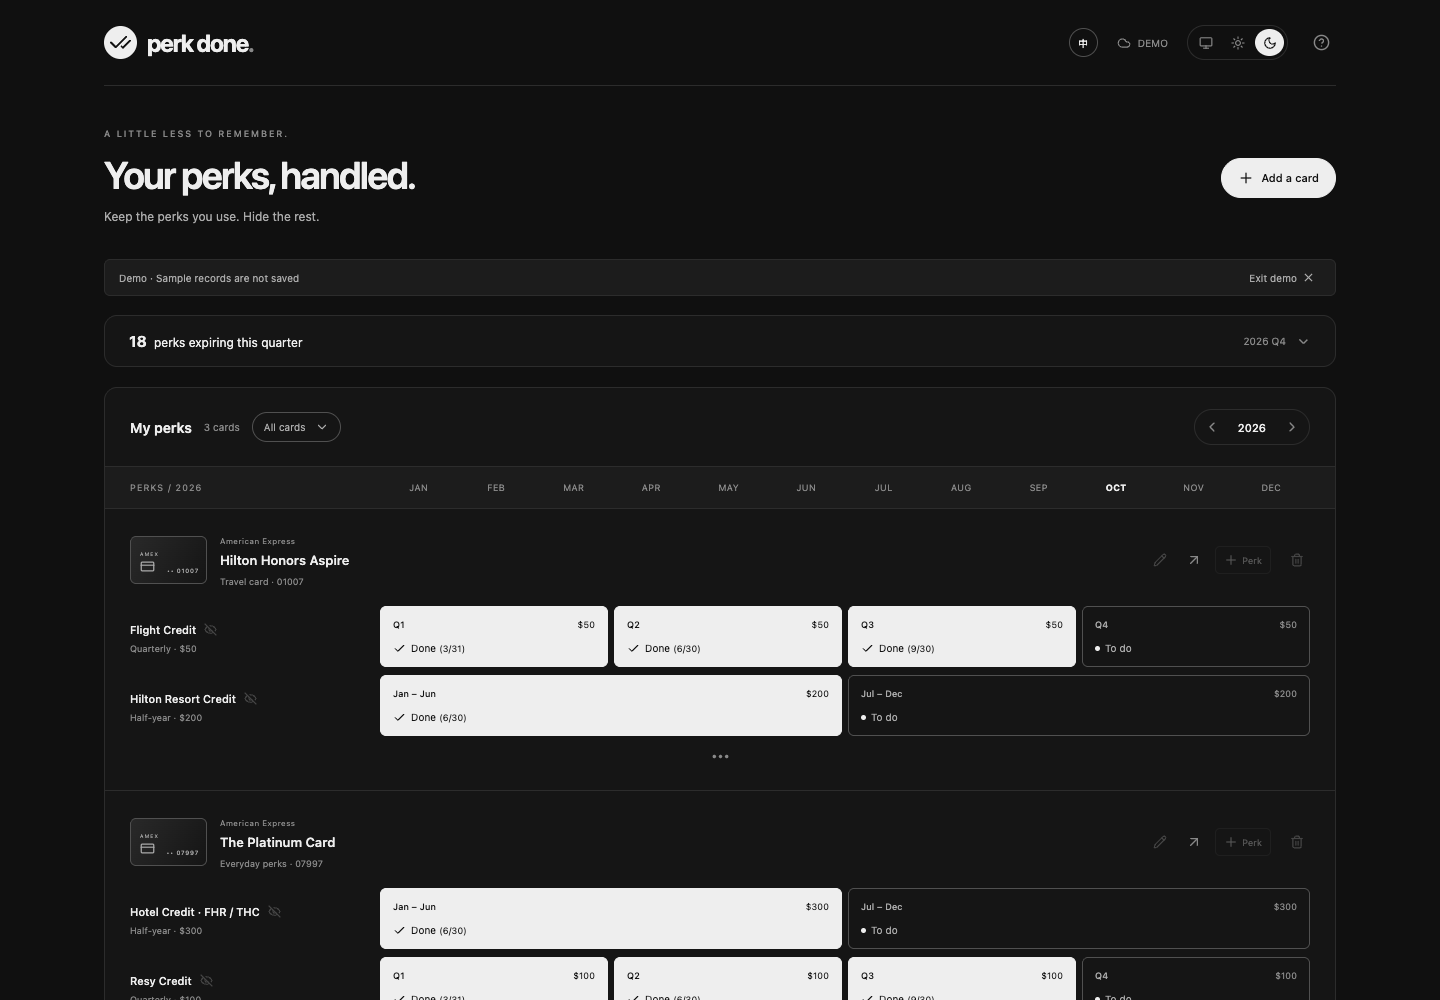
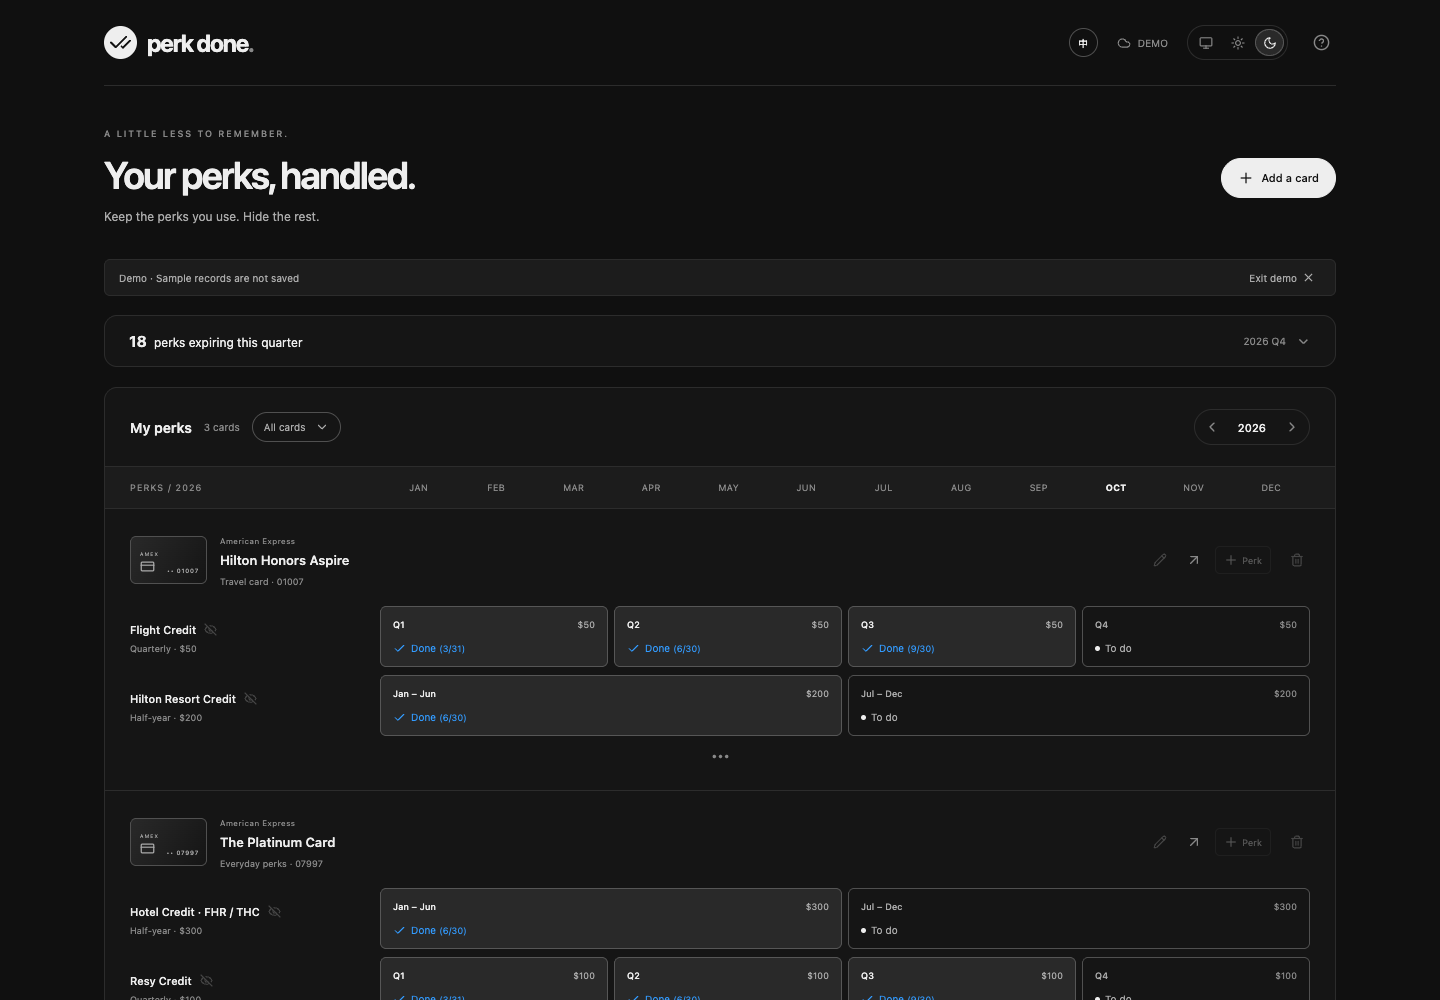
Soften completed perk states and compact wallet overview

Changed region(s): [[0.25, 0.868, 0.75, 1.0], [0.25, 0.589, 0.75, 0.744], [0.875, 0.031, 0.9062, 0.062]]

diff --git a/src/styles.css b/src/styles.css
@@ -16,6 +16,9 @@
   --muted: #858585;
   --border: #e5e5e5;
   --strong-border: #c8c8c8;
+  --blue: #087be6;
+  --selected-bg: #e8e8e8;
+  --selected-border: #bdbdbd;
   --accent: #171717;
   --inverse: #fff;
   --shadow: 0 20px 80px #0002;
@@ -33,6 +36,9 @@
   --muted: #888;
   --border: #2c2c2c;
   --strong-border: #505050;
+  --blue: #329bff;
+  --selected-bg: #292929;
+  --selected-border: #565656;
   --accent: #eee;
   --inverse: #111;
   --shadow: 0 20px 80px #0008;
@@ -48,6 +54,9 @@
     --muted: #888;
     --border: #2c2c2c;
     --strong-border: #505050;
+    --blue: #329bff;
+    --selected-bg: #292929;
+    --selected-border: #565656;
     --accent: #eee;
     --inverse: #111;
     --shadow: 0 20px 80px #0008;
@@ -1265,13 +1274,13 @@ input::placeholder {
   gap: 10px;
 }
 .popup-stats {
-  padding: 25px 0 22px;
+  padding: 14px 0 12px;
 }
 .number-pair {
   display: grid;
   grid-template-columns: 1fr 1fr;
   gap: 20px;
-  padding-bottom: 24px;
+  padding-bottom: 14px;
   border-bottom: 1px solid var(--border);
 }
 .number-pair span,
@@ -1282,21 +1291,28 @@ input::placeholder {
 }
 .number-pair strong {
   display: block;
-  font-size: 40px;
-  letter-spacing: -1.5px;
+  font-size: 32px;
+  letter-spacing: -1px;
   font-weight: 550;
-  margin-top: 9px;
+  margin-top: 7px;
   line-height: 1.1;
 }
-.return-stat {
-  padding-top: 22px;
+.number-pair small {
+  display: block;
+  font-size: 9px;
+  color: var(--muted);
+  margin-top: 4px;
 }
-.return-stat > div {
+.return-stat {
+  padding-top: 12px;
+}
+.return-row {
   display: flex;
+  flex-wrap: wrap;
   align-items: center;
-  gap: 16px;
   justify-content: space-between;
-  margin-top: 13px;
+  gap: 12px;
+  margin-top: 9px;
 }
 .return-stat strong {
   font-size: 25px;
@@ -1304,25 +1320,61 @@ input::placeholder {
   letter-spacing: -0.9px;
   white-space: nowrap;
 }
+.fee-value {
+  color: var(--secondary);
+}
+.earned-value {
+  color: var(--blue);
+}
 .return-stat i {
   font-style: normal;
   color: var(--muted);
   font-size: 19px;
   margin: 0 7px;
 }
-.return-stat b {
-  font-size: 10px;
-  border: 1px solid var(--strong-border);
-  padding: 7px 9px;
-  border-radius: 16px;
-  white-space: nowrap;
-  font-weight: 500;
+.return-message {
+  margin-left: auto;
+  display: flex;
+  flex-direction: column;
+  align-items: center;
+  text-align: center;
+  gap: 3px;
+  max-width: 130px;
+  flex-shrink: 0;
+}
+.return-emoji {
+  font-size: 19px;
+  line-height: 1.2;
+}
+.return-message b {
+  font-size: 11px;
+  font-weight: 600;
+  color: var(--secondary);
+}
+.return-message small {
+  font-size: 9px;
+  line-height: 1.4;
+  color: var(--muted);
+}
+.return-message.recovered b {
+  color: var(--blue);
 }
 .return-stat p {
   font-size: 9px;
   line-height: 1.6;
   color: var(--muted);
-  margin: 12px 0 0;
+  margin: 9px 0 0;
+}
+.popup .popup-footer {
+  padding: 12px 0 13px;
+}
+.popup .app-header {
+  height: 60px;
+}
+.popup .demo-banner {
+  margin-top: 12px;
+  margin-bottom: 0;
+  padding: 8px 10px;
 }
 .quarter-focus {
   padding: 0;
@@ -1462,38 +1514,55 @@ input::placeholder {
 }
 .period.done,
 .period.done:hover:not(:disabled) {
-  background: var(--accent);
-  border-color: var(--accent);
-  color: var(--inverse);
-  box-shadow: inset 0 0 0 1px var(--accent);
+  background: var(--selected-bg);
+  border-color: var(--selected-border);
+  color: var(--text);
+  box-shadow: none;
 }
-.period.done .period-top,
+.period.done .period-top {
+  color: var(--text);
+}
 .period.done .period-top > span,
-.period.done .done-date,
 .period.done .expiry-note {
-  color: var(--inverse);
+  color: var(--secondary);
+}
+.period.done .period-state,
+.period.done .done-date {
+  color: var(--blue);
 }
 .theme-control button.selected,
 .theme-control button.selected:hover {
-  background: var(--accent);
-  color: var(--inverse);
+  background: var(--selected-bg);
+  color: var(--text);
+  box-shadow: inset 0 0 0 1px var(--selected-border);
 }
 .product.selected,
 .product.selected:hover {
-  background: var(--accent);
-  color: var(--inverse);
-  border-color: var(--accent);
-  box-shadow: inset 0 0 0 1px var(--accent);
+  background: var(--selected-bg);
+  color: var(--text);
+  border-color: var(--selected-border);
+  box-shadow: none;
 }
 .product.selected small {
-  color: var(--inverse);
+  color: var(--secondary);
+}
+.product.selected > svg {
+  color: var(--blue);
 }
 .product.selected .mini-card {
-  background: var(--inverse);
-  color: var(--accent);
+  background: var(--surface);
+  color: var(--secondary);
+}
+.filter-button.active {
+  background: var(--selected-bg);
+  color: var(--text);
+  border-color: var(--selected-border);
+}
+.filter-popover input {
+  accent-color: var(--blue);
 }
 .manual-period:has(.done) .schedule-edit {
-  color: var(--inverse);
+  color: var(--secondary);
 }
 @media (max-width: 600px) {
   .toolbar-left {

diff --git a/src/main.tsx b/src/main.tsx
@@ -577,22 +577,52 @@ function App() {
                   <div>
                     <span>{t("本季度待完成")}</span>
                     <strong data-testid="due-count">{due.length}</strong>
+                    <small>{t("本季度")}</small>
                   </div>
                 </div>
                 <div className="return-stat">
                   <span>
-                    {new Date().getFullYear()} / {t("年费与已使用权益")}
+                    {new Date().getFullYear()} {t("年费与已使用权益")}
                   </span>
-                  <div>
+                  <div className="return-row">
                     <strong data-testid="value-ratio">
-                      {money(yearly.fees)}
+                      <span className="fee-value">{money(yearly.fees)}</span>
                       <i>/</i>
-                      {money(yearly.recovered)}
+                      <span className="earned-value">
+                        {money(yearly.recovered)}
+                      </span>
                     </strong>
-                    <b data-testid="net-value">
-                      {yearly.net >= 0 ? t("赚了") : t("尚差")}{" "}
-                      {money(Math.abs(yearly.net))}
-                    </b>
+                    <div
+                      className={`return-message ${shown.cards.length && yearly.net >= 0 ? "recovered" : "waiting"}`}
+                    >
+                      <span className="return-emoji" aria-hidden="true">
+                        {!shown.cards.length
+                          ? "🌱"
+                          : yearly.net > 0
+                            ? "👑"
+                            : yearly.net === 0
+                              ? "✨"
+                              : "💪"}
+                      </span>
+                      <b data-testid="net-value">
+                        {!shown.cards.length
+                          ? t("从第一张卡开始")
+                          : yearly.net > 0
+                            ? `${t("净赚")} ${money(yearly.net)}`
+                            : yearly.net === 0
+                              ? t("回本啦！")
+                              : t("加油！")}
+                      </b>
+                      <small>
+                        {!shown.cards.length
+                          ? t("让权益发挥价值。")
+                          : yearly.net > 0
+                            ? t("你是薅羊毛之神！")
+                            : yearly.net === 0
+                              ? t("接下来都是赚的。")
+                              : t("向回本再近一步。")}
+                      </small>
+                    </div>
                   </div>
                   <p>{t("按已完成权益的额度估算；房券不自动估值。")}</p>
                   {yearly.missingFees > 0 && (

diff --git a/src/i18n.ts b/src/i18n.ts
@@ -4,6 +4,15 @@ export function setLanguage(value: Language) {
   language = value;
 }
 const translations: Record<string, string> = {
+  本季度: "This quarter",
+  净赚: "Net earned",
+  "你是薅羊毛之神！": "Perk legend!",
+  "回本啦！": "Broke even!",
+  "接下来都是赚的。": "Every next perk is a win.",
+  "加油！": "Keep going!",
+  "向回本再近一步。": "Every perk gets you closer.",
+  从第一张卡开始: "Add your first card",
+  "让权益发挥价值。": "Make your perks count.",
   无效主题: "Invalid theme.",
   "卡片已移除，请重新打开面板。":
     "This card was removed. Reopen the dashboard.",
@@ -198,8 +207,8 @@ const translations: Record<string, string> = {
   移除卡片: "Remove card",
   钱包概览: "Wallet overview",
   信用卡: "Cards",
-  本季度待完成: "Remaining this quarter",
-  年费与已使用权益: "Annual fees / Used value",
+  本季度待完成: "Perks to finish",
+  年费与已使用权益: "Annual fee / Earned",
   赚了: "Ahead",
   尚差: "To break even",
   "按已完成权益的额度估算；房券不自动估值。":
@@ -253,6 +262,8 @@ const chinese: Record<string, string> = {
 };
 export function t(text: string) {
   return language === "zh"
-    ? (chinese[text] ?? text)
+    ? text === "年费与已使用权益"
+      ? "年费 / 已赚回"
+      : (chinese[text] ?? text)
     : (translations[text] ?? text);
 }

diff --git a/README.md b/README.md
@@ -12,14 +12,14 @@ A small Chrome extension for keeping track of credit card perks — without anot
 
 - **Toolbar popup:** numbers only — total cards, remaining quarter perks, and annual fees / completed credit value with the difference.
 - **Full dashboard:** jump straight to an equal-width annual timeline; the quarter deadline list is collapsed until you open it. Select any combination of cards with the multi-select filter. Monthly, quarterly, semiannual, and calendar-year perks share the same 12-month axis.
-- **Monochrome UI:** black, white, and gray, with light, dark, and system themes. Theme preferences sync between extension surfaces and devices.
+- **Restrained UI:** black, white, and gray with a blue accent for completion and earned value, with light, dark, and system themes. Theme preferences sync between extension surfaces and devices.
 - **Multiple cards per product:** distinguish cards with nicknames and optional **4–5 digit suffixes**, including Amex's last five digits. Existing suffixes can be edited without losing records.
 - **One-click completion:** click an unfinished period to save today immediately. Click `Done(6/21)` to open a small anchored date editor with Save date and Undo completion. Historical periods can be logged today; upcoming periods cannot be completed.
 - **Hidden perks:** use the eye icon beside a perk to hide it from the timeline and quarter's todo count. The card's `…` control says **Show hidden perks** on hover or keyboard focus and lets you restore them. Hidden perks retain their completion history.
 - **Custom cards and perks:** add products not in the bundled catalog.
 - **Actual validity dates:** set bank-reported ranges for cardmember-year credits and certificates instead of treating them as calendar-year credits.
 
-English is the default language. The **中 / EN** button switches to Chinese or English; this preference syncs with the wallet. Completed cells and selected controls use inverse black/white fills for clear contrast in both themes.
+English is the default language. The **中 / EN** button switches to Chinese or English; this preference syncs with the wallet. Completed cells and selected controls use a distinct soft gray fill in both themes. Done and its checkmark use blue. The compact popup shows fees in gray, earned value in blue, and a small emoji with progress or net-earnings encouragement.
 
 ## Install locally / 本地安装
 
@@ -36,7 +36,7 @@ npm ci
 npm run dev      # local preview; independent browser-local storage
 npm test         # model, storage, migration, deadline and catalog tests
 npm run build    # creates dist, ready for Load unpacked
-npm run package  # creates release/perk-done-0.3.0.zip
+npm run package  # creates release/perk-done-0.3.1.zip
 ```
 
 Preview routes:
@@ -121,7 +121,7 @@ The discontinued Saks perk's 2026-06-30 cutoff is documented by [NerdWallet's re
 
 ## Annual fees and used value
 
-The popup uses the current calendar year across **all cards**, independent of dashboard filters. The first number sums actual annual fees (editable when adding or editing a card); the second sums the face value of completed credit periods. Example: Aspire $550 / $600 → **Ahead $50**. Undo reduces used value. Hidden completed credits still count.
+The popup uses the current calendar year across **all cards**, independent of dashboard filters. The first number sums actual annual fees (editable when adding or editing a card); the second sums the face value of completed credit periods. Example: Aspire $550 / $600 → **Net earned $50**. Undo reduces used value. Hidden completed credits still count.
 
 A completion assumes the entire period credit was used. This is an estimate, not bank-verified reimbursement or a measure of actual profit. Free-night certificates have zero automatic cash value; signup bonuses, points, taxes and additional spending are excluded. Calendar perks are attributed to their timeline year, even when recorded later. Manual credits use the completion-date year, including retained records from earlier date ranges. Annual fees represent current configured fees, not a historical billing ledger; adjust for waivers, introductory offers or personal pricing. Catalog defaults are the public standard annual fees.
 
@@ -149,6 +149,6 @@ For an existing Chrome-for-Testing installation, pass its executable path throug
 
 ## Publishing
 
-`release/perk-done-0.3.0.zip` contains only the built extension. Source, dependencies, tests, screenshots, and personal records are excluded. The extension has not been published to the Chrome Web Store.
+`release/perk-done-0.3.1.zip` contains only the built extension. Source, dependencies, tests, screenshots, and personal records are excluded. The extension has not been published to the Chrome Web Store.
 
 The GitHub repository stores the source. Rebuild locally for Load unpacked. Chrome Web Store distribution additionally needs a developer registration, a one-time registration fee, listing screenshots, and a publicly accessible privacy policy.

diff --git a/PRIVACY.md b/PRIVACY.md
@@ -1,6 +1,6 @@
 # Perk Done 隐私政策
 
-版本：0.3.0 · 更新日期：2026-10-01
+版本：0.3.1 · 更新日期：2026-10-01
 
 Perk Done 用于手动追踪信用卡福利。只保存您主动添加的卡片产品、昵称、可选的后 4–5 位卡片尾号、自定义福利、福利隐藏状态、您填写的实际有效期、完成日期，实际年费，以及主题和语言偏好。请不要在昵称或备注中输入完整卡号、密码或其他敏感信息。
 
